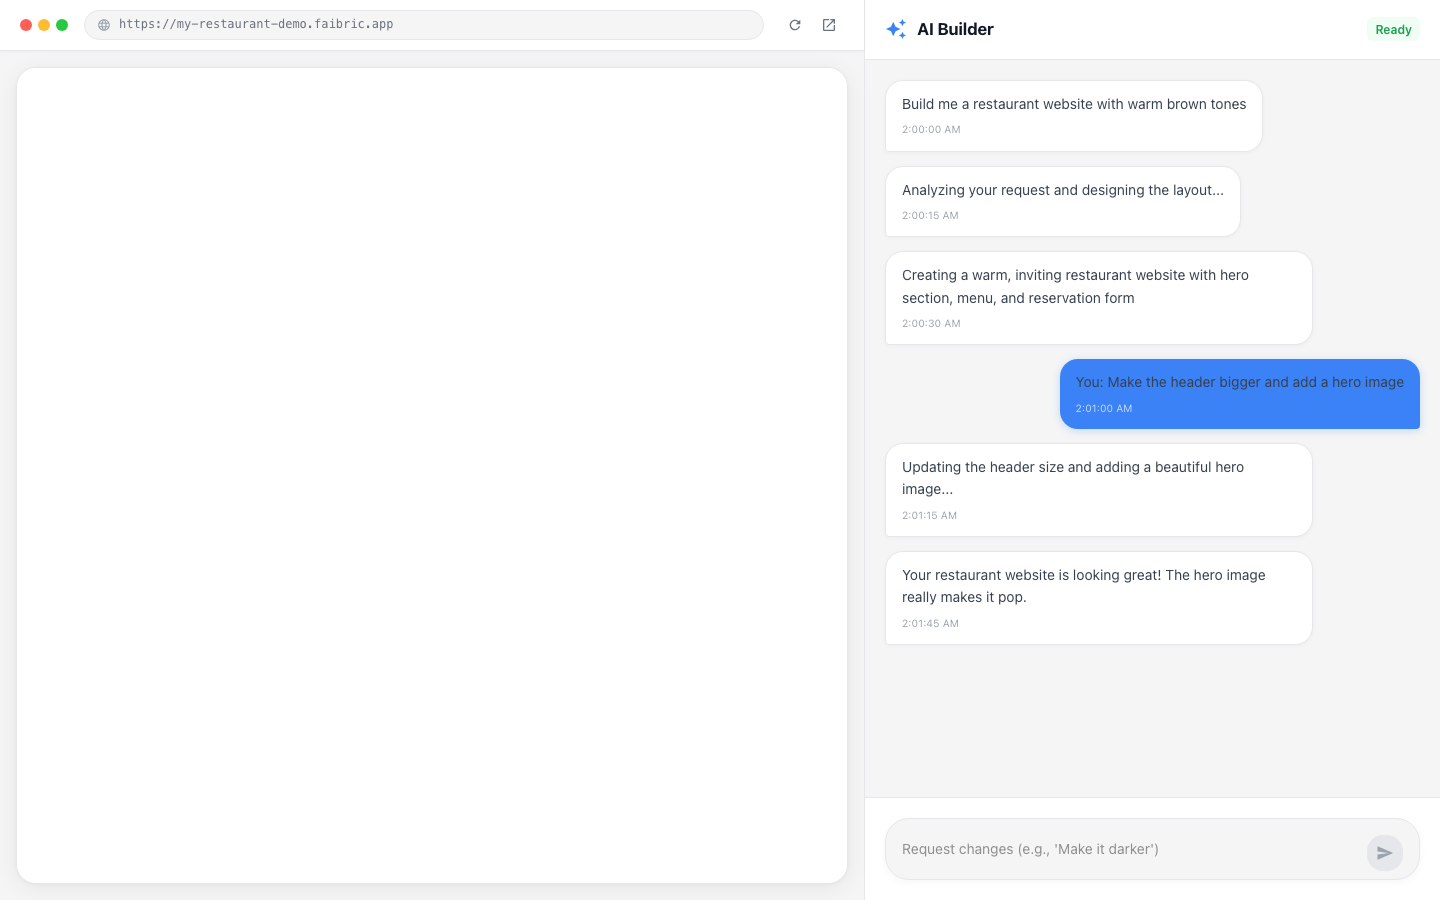
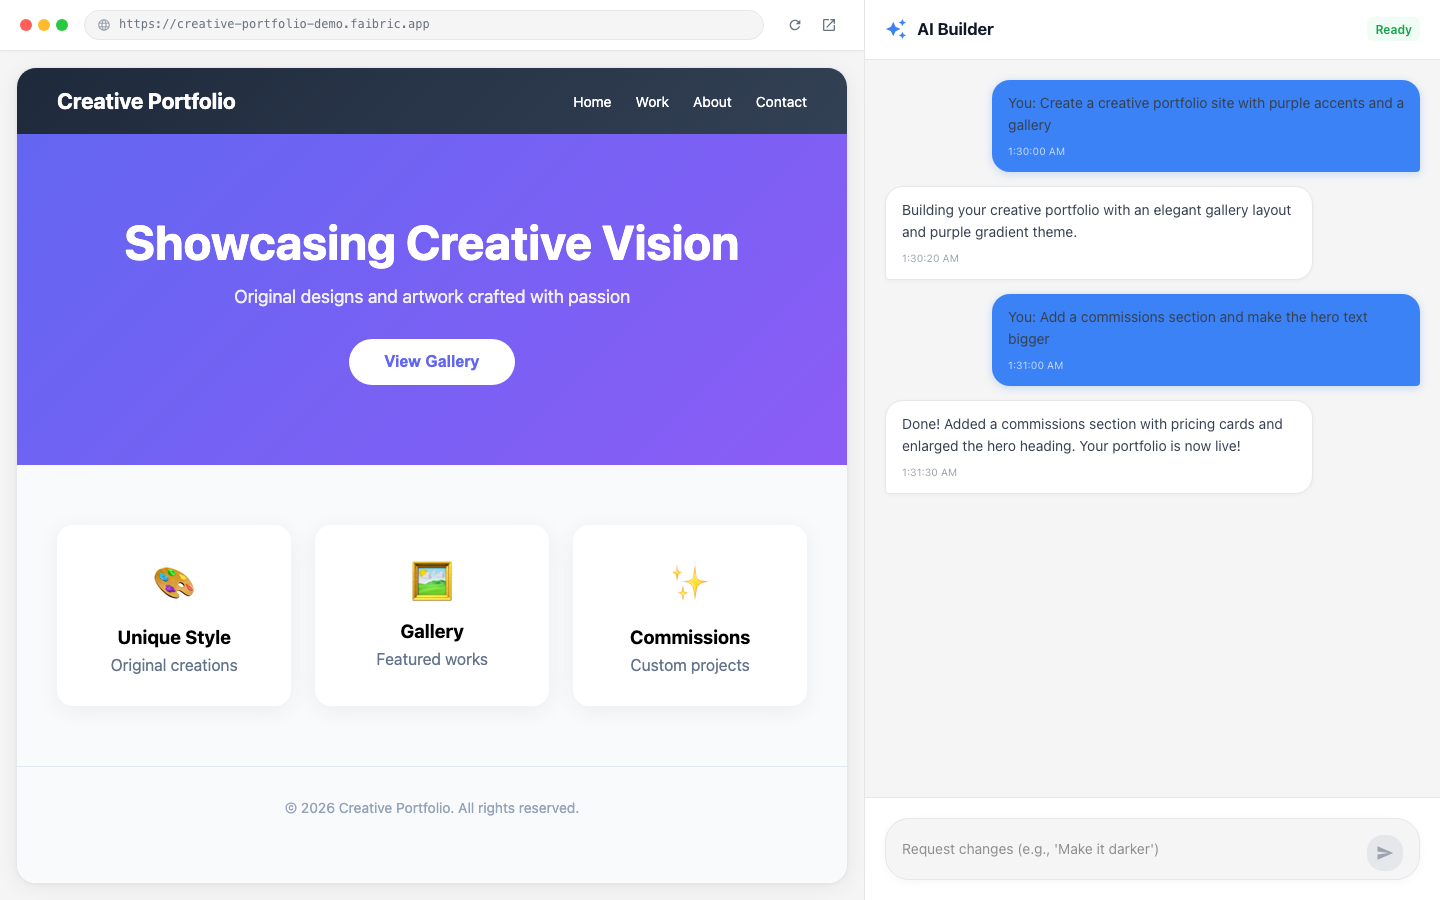
fix(customer-tests): fix screenshot routes and mock data for builder-studio-v2
- Use different project IDs (1 building, 2 deployed) for visually different screenshots
- First chat message uses user_ prefix for blue user bubble rendering
- Inject mock HTML into preview iframe via srcdoc for non-blank preview
- Different themes: restaurant (building) vs creative portfolio (deployed)

diff --git a/customer-tests/builder-studio-v2/FULL_TEST_LOG.md b/customer-tests/builder-studio-v2/FULL_TEST_LOG.md
@@ -219,3 +219,61 @@ Playwright (v1.58.0) was used with Chromium to capture screenshots of the builde
 - [x] No dark backgrounds in any modified file
 - [x] Blue (#3b82f6) used for accents only
 - [x] No business logic modified
+
+---
+
+## Screenshot Fix - Retry Attempt 2
+### Worker Session: 1770511025-77322
+### Date: 2026-02-08
+### Timestamp: 2026-02-08T00:37:00Z
+
+### Problem
+Previous screenshots (Chunk 003) were byte-for-byte identical because:
+1. Both `/create/1` and `/live-creation/1` render the **same** `LiveCreation` component with the same project ID (1) and identical mock data
+2. Preview iframe was blank white (deployment URL pointed to external HTTPS domain that doesn't exist)
+3. First chat message had id `msg_1` (not `user_`) so it rendered as an AI bubble instead of a user bubble
+
+Previous identical MD5: `93876c9faf9ffbf66c62a7cd5100e2ea`
+
+### Root Cause Analysis
+- React Router maps both `/create/:id` and `/live-creation/:id` to the same `LiveCreation` component
+- `BuildingStudio` is a sub-component (not directly routed), so there's no separate route to screenshot it
+- User messages are identified by `message.id.startsWith('user_')` in the component
+- Playwright `page.route()` doesn't intercept cross-origin HTTPS requests from iframes
+
+### Fixes Applied
+1. **Different project IDs with different states:**
+   - Screenshot 1 (`/create/1`): Project 1 in `building` state, progress=45%, no deployment URL (shows ProgressivePreview with restaurant theme)
+   - Screenshot 2 (`/live-creation/2`): Project 2 in `deployed` state, progress=100%, with deployment URL (shows iframe with portfolio content)
+
+2. **First message is always a user bubble:**
+   - All mock data sets start with `id: "user_*"` messages so they render as blue user bubbles
+
+3. **Preview iframe content:**
+   - Used `page.evaluate()` to set `iframe.srcdoc` with mock HTML (Creative Portfolio website with header, hero section, features, footer)
+   - This bypasses the cross-origin HTTPS interception issue entirely
+
+4. **Different mock data themes:**
+   - Screenshot 1: Restaurant website (warm brown tones, building state)
+   - Screenshot 2: Creative Portfolio (purple gradients, deployed state with live preview)
+
+### New Screenshot Verification
+
+| Screenshot | Route | Project | State | First Bubble | Preview Content |
+|-----------|-------|---------|-------|-------------|----------------|
+| builder-create.png | /create/1 | My Restaurant | Building (45%) | Blue user bubble | ProgressivePreview (restaurant) |
+| live-creation.png | /live-creation/2 | Creative Portfolio | Deployed (100%) | Blue user bubble | Mock portfolio website |
+
+### MD5 Hashes (DIFFERENT - Confirmed)
+```
+MD5 (builder-create.png) = 20b8b6bb5854e5da73ca14dba97328b0
+MD5 (live-creation.png) = 78993a892da87e5377f45b6b93f9471b
+```
+
+Hashes are different: PASS
+
+### Files Modified
+- `customer-tests/builder-studio-v2/screenshot.mjs` - Rewritten with correct routes, different mock data, iframe content injection
+- `customer-tests/builder-studio-v2/builder-create.png` - New screenshot (building state)
+- `customer-tests/builder-studio-v2/live-creation.png` - New screenshot (deployed state with preview content)
+- `customer-tests/builder-studio-v2/FULL_TEST_LOG.md` - Updated with retry information
